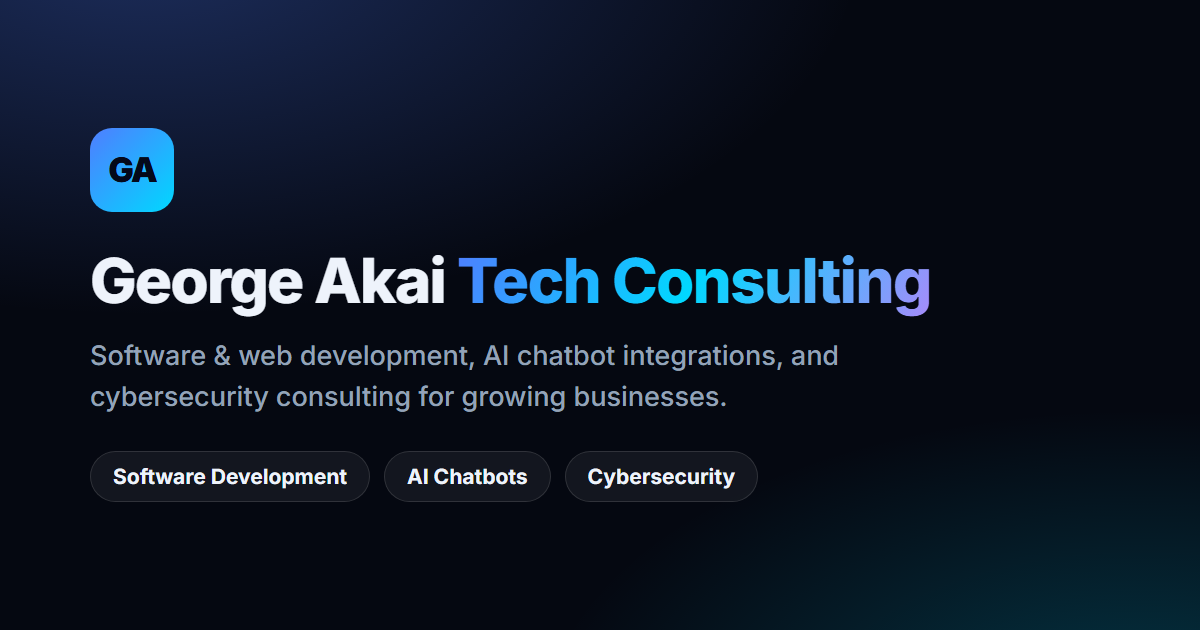
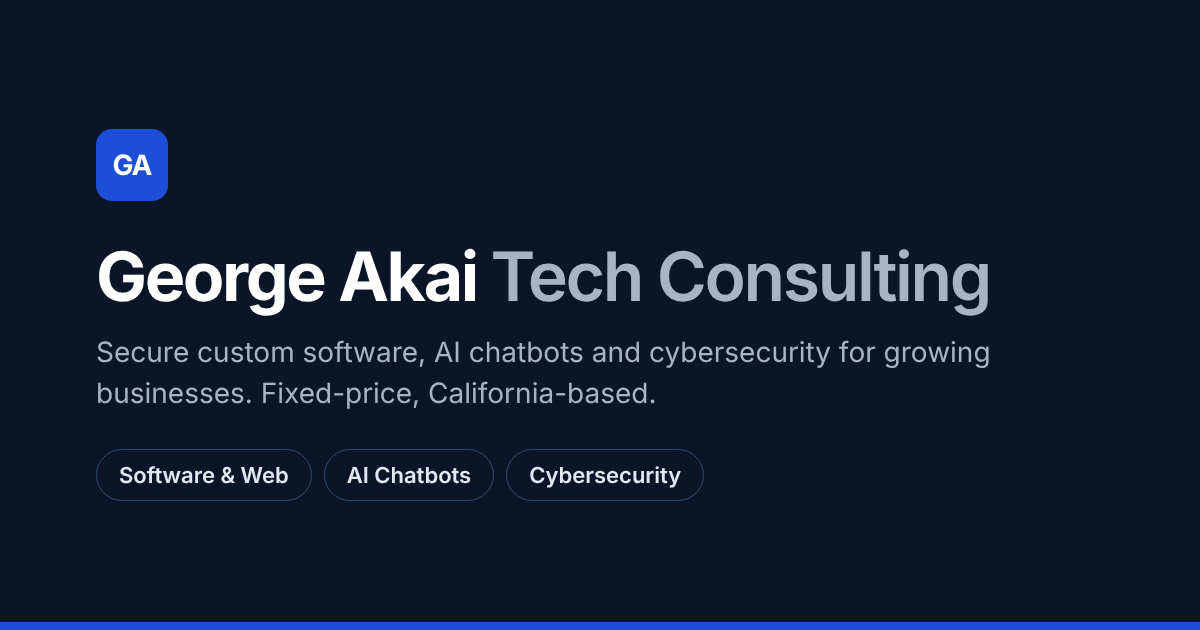
Switch to a professional navy and blue theme
- Deep ink-navy dark surfaces and a single corporate blue accent (#1d4ed8)
  replace the near-black and electric blue; all colours now come from tokens
- Inter for headings as well as body (drops Space Grotesk; one font family)
- Calmer data styling: metrics and add-on prices in white instead of green
- All text pairs checked at WCAG AA or better
- /about and /beyond use the same navy and blue, with solid buttons
- New favicon, app icons and Open Graph image in the new palette
- Fix: stats row lost its container padding; results link had low contrast

Claude-Session: https://claude.ai/code/session_01N8J3yfz3VPtMYEnKWv75Zr

diff --git a/src/styles/ga.css b/src/styles/ga.css
@@ -4,36 +4,41 @@
    ============================================================ */
 
 :where(.ga-header, .ga-footer, .ga-home, .ga-legal, .ga-skip) {
-  /* Dark brand surfaces */
-  --navy-950: #050811;
-  --navy-900: #0b1220;
-  --navy-850: #121b2e;
-  --navy-line: #1f2940;
-  --footer: #03050b;
+  /* Dark brand surfaces: deep ink navy */
+  --navy-950: #0a1628;       /* hero, results, pricing, contact */
+  --navy-900: #102038;       /* cards on dark */
+  --navy-850: #162a47;       /* image placeholders on dark */
+  --navy-800: #1a3052;       /* raised chips / active tab on dark */
+  --navy-line: #213656;      /* borders on dark */
+  --navy-line-strong: #2f4a72; /* outlines, secondary buttons on dark */
+  --footer: #07101e;
 
   /* Light surfaces */
   --white: #ffffff;
-  --gray-50: #f6f7f9;
-  --gray-200: #e3e7ee;
-  --gray-300: #c6cdd9;
+  --gray-50: #f5f7fa;        /* alternating section bg */
+  --gray-200: #e2e8f0;       /* card borders */
+  --gray-300: #cbd5e1;       /* input borders */
 
   /* Text */
-  --ink: #0b1220;
-  --ink-2: #2a3550;
-  --muted: #4a5568;
-  --muted-2: #5a6478;
-  --on-dark: #e6eaf2;
-  --on-dark-muted: #a3adc2;
+  --ink: #0f172a;
+  --ink-2: #1e293b;
+  --muted: #475569;          /* body on light */
+  --muted-2: #5b6779;        /* captions on light */
+  --on-dark: #e2e8f0;
+  --on-dark-2: #c8d3e3;
+  --on-dark-muted: #a7b4c8;
+  --on-dark-faint: #8d9bb2;  /* placeholder labels on dark */
 
-  /* Accent */
-  --accent: #2457f5;
-  --accent-hover: #1a3fb8;
-  --accent-on-dark: #8aa8ff;
-  --accent-tint: #eef2fe;
-  --success: #5fd3a1;
-  --success-on-light: #1e8e5e;
-  --star: #e8a317;
-  --danger: #c0262d;
+  /* Accent: one restrained corporate blue */
+  --accent: #1d4ed8;
+  --accent-hover: #1e40af;
+  --accent-on-dark: #93b4ff;
+  --accent-tint: #eef3ff;
+  --success: #6fcf9f;        /* checks on dark */
+  --success-on-light: #15803d;
+  --star: #c27a06;
+  --danger: #b91c1c;
+  --danger-tint: #fdeeee;
 
   --radius-sm: 8px;
   --radius: 12px;
@@ -44,7 +49,7 @@
   --header-h: 72px;
 
   --font-body: 'Inter', ui-sans-serif, system-ui, -apple-system, 'Segoe UI', sans-serif;
-  --font-head: 'Space Grotesk', 'Inter', ui-sans-serif, system-ui, sans-serif;
+  --font-head: 'Inter', ui-sans-serif, system-ui, -apple-system, 'Segoe UI', sans-serif;
 
   font-family: var(--font-body);
   line-height: 1.55;
@@ -106,15 +111,16 @@ html { scroll-padding-top: 80px; }
 }
 .ga-h1 {
   font-size: clamp(38px, 5vw, 60px);
-  line-height: 1.05;
+  line-height: 1.06;
   font-weight: 700;
-  letter-spacing: -0.025em;
+  letter-spacing: -0.035em;
   text-wrap: balance;
 }
 .ga-h2 {
   font-size: clamp(30px, 3.5vw, 42px);
   line-height: 1.15;
   font-weight: 700;
+  letter-spacing: -0.03em;
   text-wrap: balance;
 }
 .ga-h3 { font-size: 19px; line-height: 1.3; font-weight: 600; letter-spacing: -0.01em; }
@@ -159,8 +165,8 @@ html { scroll-padding-top: 80px; }
 .ga-btn-primary { background: var(--accent); color: #fff; }
 .ga-btn-primary:hover { background: var(--accent-hover); color: #fff; }
 
-.ga-btn-secondary-dark { border-color: #3a4766; color: #fff; background: transparent; }
-.ga-btn-secondary-dark:hover { border-color: var(--accent-on-dark); background: rgba(138, 168, 255, 0.08); color: #fff; }
+.ga-btn-secondary-dark { border-color: var(--navy-line-strong); color: #fff; background: transparent; }
+.ga-btn-secondary-dark:hover { border-color: var(--accent-on-dark); background: rgba(147, 180, 255, 0.08); color: #fff; }
 
 .ga-btn-secondary-light { border-color: var(--accent); color: var(--accent); background: transparent; }
 .ga-btn-secondary-light:hover { background: var(--accent-tint); color: var(--accent-hover); border-color: var(--accent-hover); }
@@ -176,8 +182,8 @@ html { scroll-padding-top: 80px; }
   font-weight: 600;
   text-decoration: none;
 }
-.ga-home .ga-link-dark { color: var(--accent-on-dark); }
-.ga-home .ga-link-dark:hover { color: #fff; }
+.ga-home a.ga-link-dark:not(.ga-btn) { color: var(--accent-on-dark); }
+.ga-home a.ga-link-dark:not(.ga-btn):hover { color: #fff; }
 .ga-home .ga-link-light { color: var(--accent); }
 
 /* ---------- Skip link ---------- */
@@ -201,7 +207,7 @@ html { scroll-padding-top: 80px; }
   top: 0;
   z-index: 100;
   background: var(--navy-950);
-  border-bottom: 1px solid #1a2233;
+  border-bottom: 1px solid var(--navy-line);
   color: var(--on-dark);
 }
 .ga-header-inner {
@@ -245,7 +251,7 @@ html { scroll-padding-top: 80px; }
   min-height: 44px;
   padding: 0 12px;
   border-radius: var(--radius-sm);
-  color: #c9d1e0;
+  color: var(--on-dark-2);
   font-size: 15px;
   font-weight: 500;
   text-decoration: none;
@@ -262,7 +268,7 @@ html { scroll-padding-top: 80px; }
   width: 44px;
   height: 44px;
   border-radius: var(--radius-sm);
-  border: 1px solid #263048;
+  border: 1px solid var(--navy-line-strong);
   background: transparent;
   color: #fff;
   cursor: pointer;
@@ -277,7 +283,7 @@ html { scroll-padding-top: 80px; }
     left: 0;
     right: 0;
     background: var(--navy-950);
-    border-bottom: 1px solid #1a2233;
+    border-bottom: 1px solid var(--navy-line);
     box-shadow: 0 24px 40px -12px rgba(0, 0, 0, 0.6);
     padding: 8px var(--gutter) 20px;
   }
@@ -362,7 +368,7 @@ html { scroll-padding-top: 80px; }
   gap: 8px;
   margin: 0 0 22px;
   padding: 6px 14px;
-  border: 1px solid #263048;
+  border: 1px solid var(--navy-line-strong);
   border-radius: 999px;
   font-size: 13px;
   font-weight: 500;
@@ -394,7 +400,7 @@ html { scroll-padding-top: 80px; }
   letter-spacing: -0.015em;
   color: #fff;
 }
-.ga-home .ga-call-steps { display: flex; flex-direction: column; gap: 16px; margin-bottom: 24px; color: #c9d1e0; }
+.ga-home .ga-call-steps { display: flex; flex-direction: column; gap: 16px; margin-bottom: 24px; color: var(--on-dark-2); }
 .ga-call-steps li { display: flex; gap: 14px; }
 .ga-call-num {
   flex: none;
@@ -403,7 +409,7 @@ html { scroll-padding-top: 80px; }
   width: 28px;
   height: 28px;
   border-radius: 50%;
-  background: #18233d;
+  background: var(--navy-800);
   color: var(--accent-on-dark);
   font-weight: 700;
   font-size: 14px;
@@ -419,10 +425,10 @@ html { scroll-padding-top: 80px; }
 .ga-avatar-ph {
   display: grid;
   place-items: center;
-  border: 2px dashed #3a4766;
+  border: 2px dashed var(--navy-line-strong);
   font-size: 10px;
   letter-spacing: 0.04em;
-  color: #8c97ad;
+  color: var(--on-dark-faint);
 }
 .ga-call-name { margin: 0; font-weight: 600; color: #fff; }
 .ga-call-role { margin: 0; font-size: 14px; color: var(--on-dark-muted); }
@@ -482,7 +488,7 @@ html { scroll-padding-top: 80px; }
 .ga-cred-pills li {
   padding: 6px 14px;
   border-radius: 999px;
-  background: #eef2fa;
+  background: var(--accent-tint);
   font-size: 13px;
   font-weight: 500;
   color: var(--ink-2);
@@ -566,12 +572,12 @@ html { scroll-padding-top: 80px; }
   display: grid;
   place-items: center;
   background: var(--navy-850);
-  color: #8c97ad;
+  color: var(--on-dark-faint);
   font-size: 13px;
   text-align: center;
   padding: 12px;
 }
-.ga-case .ga-slot { border-bottom: 1px dashed #334060; }
+.ga-case .ga-slot { border-bottom: 1px dashed var(--navy-line-strong); }
 .ga-case-body { display: flex; flex-direction: column; gap: 10px; flex: 1; padding: 26px; }
 .ga-case-tag { margin: 0; font-size: 13px; font-weight: 600; color: var(--accent-on-dark); }
 .ga-case .ga-h3 { font-size: 20px; }
@@ -582,13 +588,14 @@ html { scroll-padding-top: 80px; }
   padding-top: 16px;
   border-top: 1px solid var(--navy-line);
   font: 700 26px/1.2 var(--font-head);
-  color: var(--success);
+  letter-spacing: -0.02em;
+  color: #fff;
 }
 
 /* ---------- Testimonials ---------- */
 .ga-quote { display: flex; flex-direction: column; gap: 20px; padding: 32px; }
 .ga-stars { display: flex; gap: 3px; color: var(--star); }
-.ga-quote blockquote p { margin: 0; font-size: 18px; line-height: 1.6; color: #1c2539; }
+.ga-quote blockquote p { margin: 0; font-size: 18px; line-height: 1.6; color: var(--ink-2); }
 .ga-quote figcaption { display: flex; align-items: center; gap: 12px; margin-top: auto; }
 .ga-quote-avatar { width: 44px; height: 44px; border-radius: 50%; object-fit: cover; flex: none; }
 .ga-quote .ga-avatar-ph { border-color: var(--gray-300); }
@@ -731,7 +738,7 @@ section[aria-labelledby='guarantees-title'] .ga-h2 { margin-bottom: 44px; }
 .ga-contact-list { display: flex; flex-direction: column; gap: 14px; margin: 28px 0 !important; }
 .ga-contact-list li { display: flex; align-items: center; gap: 12px; color: var(--on-dark); min-height: 28px; overflow-wrap: anywhere; }
 .ga-contact-list svg { color: var(--accent-on-dark); flex: none; }
-.ga-home .ga-contact-list a { color: var(--on-dark); text-decoration: underline; text-decoration-color: #3a4766; }
+.ga-home .ga-contact-list a { color: var(--on-dark); text-decoration: underline; text-decoration-color: var(--navy-line-strong); }
 .ga-home .ga-contact-list a:hover { color: #fff; text-decoration-color: currentColor; }
 
 .ga-form-card {
@@ -767,7 +774,7 @@ section[aria-labelledby='guarantees-title'] .ga-h2 { margin-bottom: 44px; }
   background-position: right 12px center;
 }
 .ga-field textarea { resize: vertical; min-height: 120px; }
-.ga-field input:hover, .ga-field select:hover, .ga-field textarea:hover { border-color: #8f9ab0; }
+.ga-field input:hover, .ga-field select:hover, .ga-field textarea:hover { border-color: #94a3b8; }
 .ga-field input:focus-visible,
 .ga-field select:focus-visible,
 .ga-field textarea:focus-visible {
@@ -781,8 +788,8 @@ section[aria-labelledby='guarantees-title'] .ga-h2 { margin-bottom: 44px; }
   margin: 0 0 16px;
   padding: 12px 14px;
   border-radius: 10px;
-  background: #fdecec;
-  color: #8f1d22;
+  background: var(--danger-tint);
+  color: var(--danger);
   font-size: 15px;
 }
 .ga-form-micro { margin: 14px 0 0; font-size: 13px; color: var(--muted-2); text-align: center; }
@@ -894,7 +901,7 @@ section[aria-labelledby='guarantees-title'] .ga-h2 { margin-bottom: 44px; }
 .ga-tab:hover { color: #fff; }
 .ga-tab { white-space: nowrap; }
 .ga-tab-short { display: none; }
-.ga-tab[aria-selected='true'] { background: #18233d; color: #fff; box-shadow: inset 0 0 0 1px #2c3a5c; }
+.ga-tab[aria-selected='true'] { background: var(--navy-800); color: #fff; box-shadow: inset 0 0 0 1px var(--navy-line-strong); }
 .ga-tabpanel:focus-visible { outline-offset: 6px; }
 
 .ga-plans { align-items: stretch; }
@@ -942,7 +949,7 @@ section[aria-labelledby='guarantees-title'] .ga-h2 { margin-bottom: 44px; }
   font-size: 15px;
   color: var(--on-dark);
 }
-.ga-extras-price { flex-shrink: 0; white-space: nowrap; font-weight: 600; color: var(--success); }
+.ga-extras-price { flex-shrink: 0; white-space: nowrap; font-weight: 700; color: #fff; }
 
 .ga-pricing-notes {
   display: grid;

diff --git a/src/index.css b/src/index.css
@@ -8,28 +8,28 @@
   --font: 'Inter', ui-sans-serif, system-ui, -apple-system, BlinkMacSystemFont, 'Segoe UI', sans-serif;
 
   /* Colors - dark theme (default) */
-  --bg:            #050811;
-  --bg-card:       rgba(255, 255, 255, 0.04);
-  --bg-card-hov:   rgba(255, 255, 255, 0.07);
-  --border:        rgba(255, 255, 255, 0.08);
-  --border-hov:    rgba(255, 255, 255, 0.16);
-  --accent:        #4f7eff;
-  --accent-2:      #00d8ff;
-  --accent-violet: #a78bfa;
-  --accent-glow:   rgba(79, 126, 255, 0.22);
-  --text:          #eef3fb;
-  --text-2:        #94a3b8;
+  --bg:            #0a1628;
+  --bg-card:       #102038;
+  --bg-card-hov:   #142744;
+  --border:        #213656;
+  --border-hov:    #2f4a72;
+  --accent:        #93b4ff;
+  --accent-2:      #c3d5ff;
+  --accent-violet: #93b4ff;
+  --accent-glow:   rgba(29, 78, 216, 0.18);
+  --text:          #e2e8f0;
+  --text-2:        #a7b4c8;
   --text-3:        #546070;
   --shadow-soft:   0.45;
   --shadow-medium: 0.35;
-  --glow-1: rgba(79, 126, 255, 0.13);
-  --glow-2: rgba(0, 216, 255, 0.09);
+  --glow-1: rgba(29, 78, 216, 0.10);
+  --glow-2: rgba(29, 78, 216, 0.05);
 
   /* Fixed brand gradient - always used behind dark (--ink) text/icons, so it
      stays vivid in both themes regardless of the adaptive --accent tokens above */
-  --accent-btn-start: #4f7eff;
-  --accent-btn-end:   #00d8ff;
-  --ink: #04091a;
+  --accent-btn-start: #1d4ed8;
+  --accent-btn-end:   #1d4ed8;
+  --ink: #ffffff;
 
   /* Radii */
   --r-sm:   10px;
@@ -373,10 +373,10 @@ h1, h2, h3, h4 { margin: 0; }
 .button-primary {
   background: linear-gradient(135deg, var(--accent-btn-start), var(--accent-btn-end));
   color: var(--ink);
-  box-shadow: 0 8px 28px rgba(79, 126, 255, 0.3);
+  box-shadow: none;
 }
 
-.button-primary:hover { box-shadow: 0 14px 38px rgba(79, 126, 255, 0.48); }
+.button-primary:hover { box-shadow: none; filter: brightness(0.92); }
 
 .button-secondary {
   border: 1px solid var(--border-hov);

diff --git a/src/pages/Home.jsx b/src/pages/Home.jsx
@@ -164,16 +164,18 @@ function Stats() {
   if (!stats.length) return null
   return (
     <section className="ga-stats-wrap" aria-label="Track record">
-      <ul className="ga-container ga-stats">
-        {stats.map((s) => (
-          <li key={s.label} className="ga-stat">
-            <span className="ga-stat-value">
-              <T>{s.value}</T>
-            </span>
-            <span className="ga-stat-label">{s.label}</span>
-          </li>
-        ))}
-      </ul>
+      <div className="ga-container">
+        <ul className="ga-stats">
+          {stats.map((s) => (
+            <li key={s.label} className="ga-stat">
+              <span className="ga-stat-value">
+                <T>{s.value}</T>
+              </span>
+              <span className="ga-stat-label">{s.label}</span>
+            </li>
+          ))}
+        </ul>
+      </div>
     </section>
   )
 }

diff --git a/src/main.jsx b/src/main.jsx
@@ -3,10 +3,8 @@ import { createRoot, hydrateRoot } from 'react-dom/client'
 import '@fontsource/inter/latin-400.css'
 import '@fontsource/inter/latin-500.css'
 import '@fontsource/inter/latin-600.css'
-import '@fontsource/inter/latin-700.css' // legacy pages
+import '@fontsource/inter/latin-700.css'
 import '@fontsource/inter/latin-800.css' // legacy pages
-import '@fontsource/space-grotesk/latin-600.css'
-import '@fontsource/space-grotesk/latin-700.css'
 import App from './App'
 import './index.css'
 import './styles/ga.css'

diff --git a/index.html b/index.html
@@ -21,7 +21,7 @@
     <link rel="icon" type="image/svg+xml" href="/favicon.svg" />
     <link rel="apple-touch-icon" href="/apple-touch-icon.png" />
     <link rel="manifest" href="/manifest.json" />
-    <meta name="theme-color" content="#050811" />
+    <meta name="theme-color" content="#0a1628" />
 
     <!-- Open Graph -->
     <meta property="og:type" content="website" />
